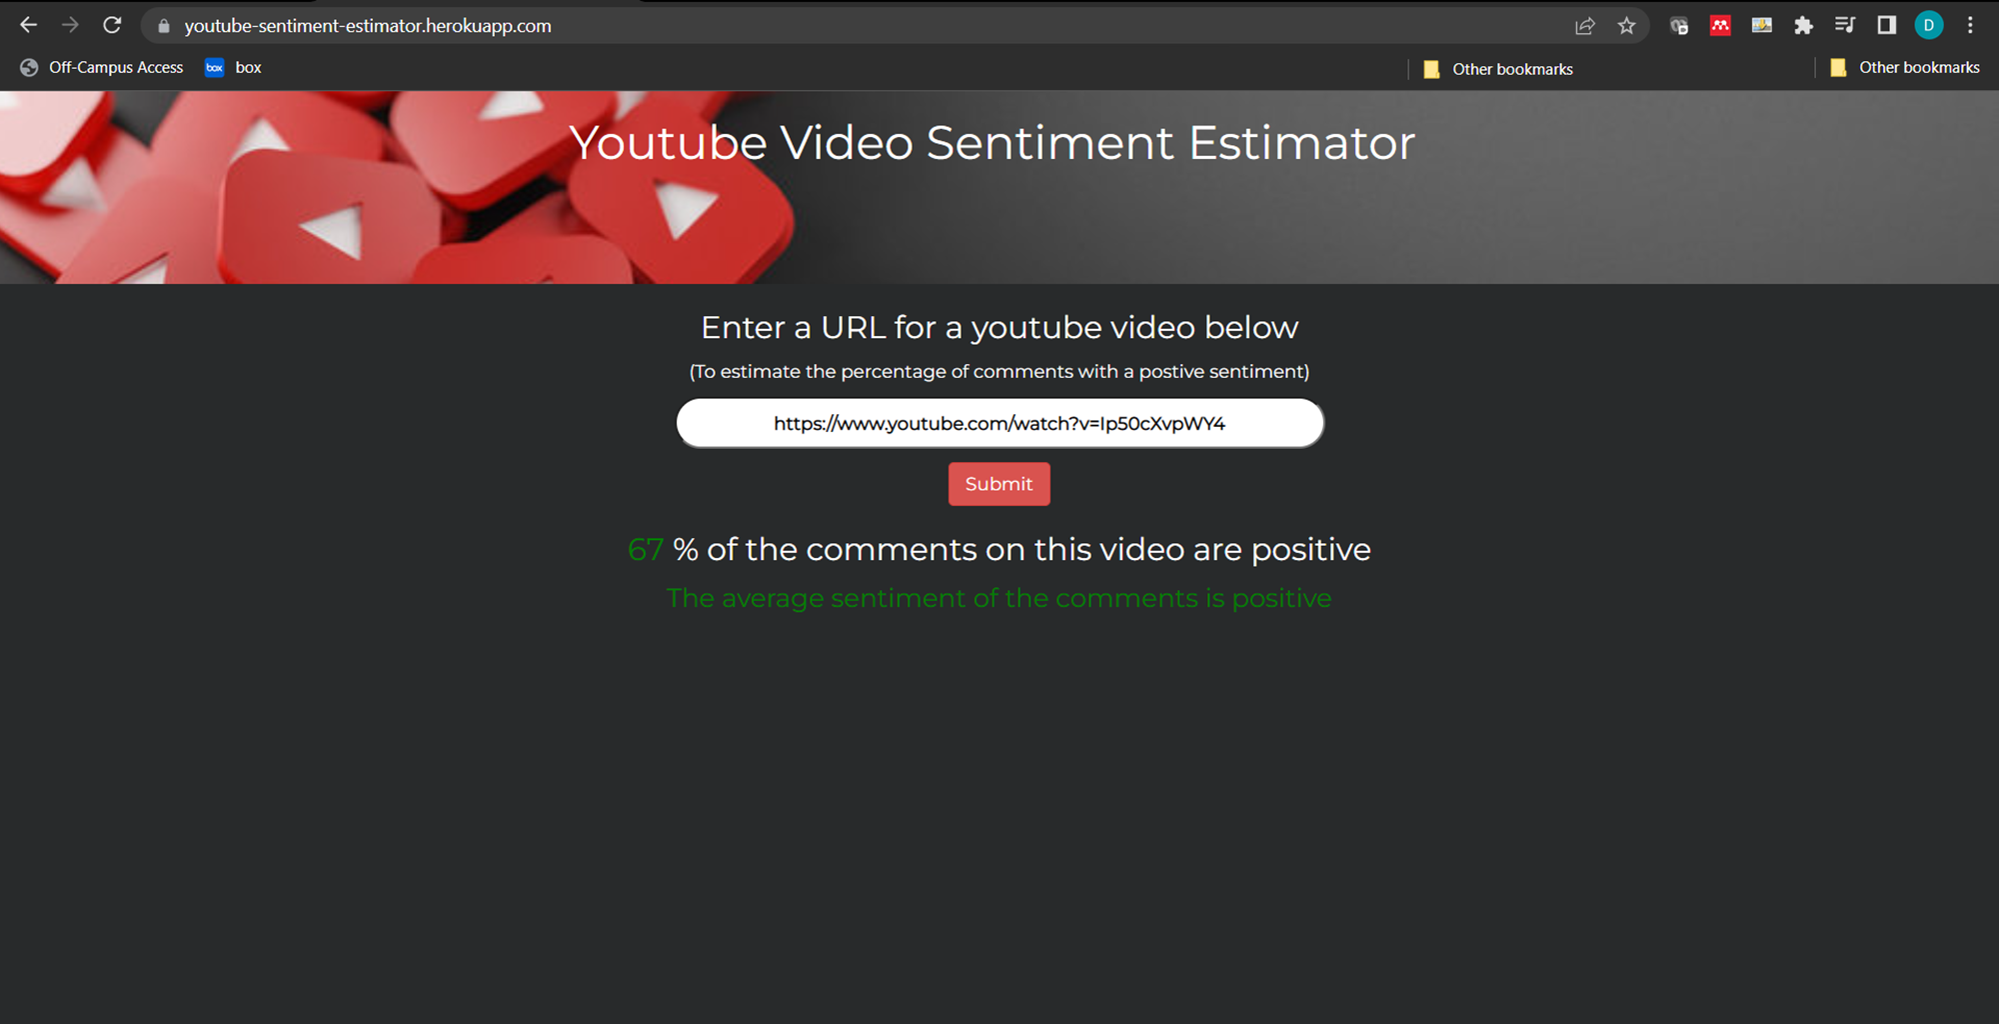
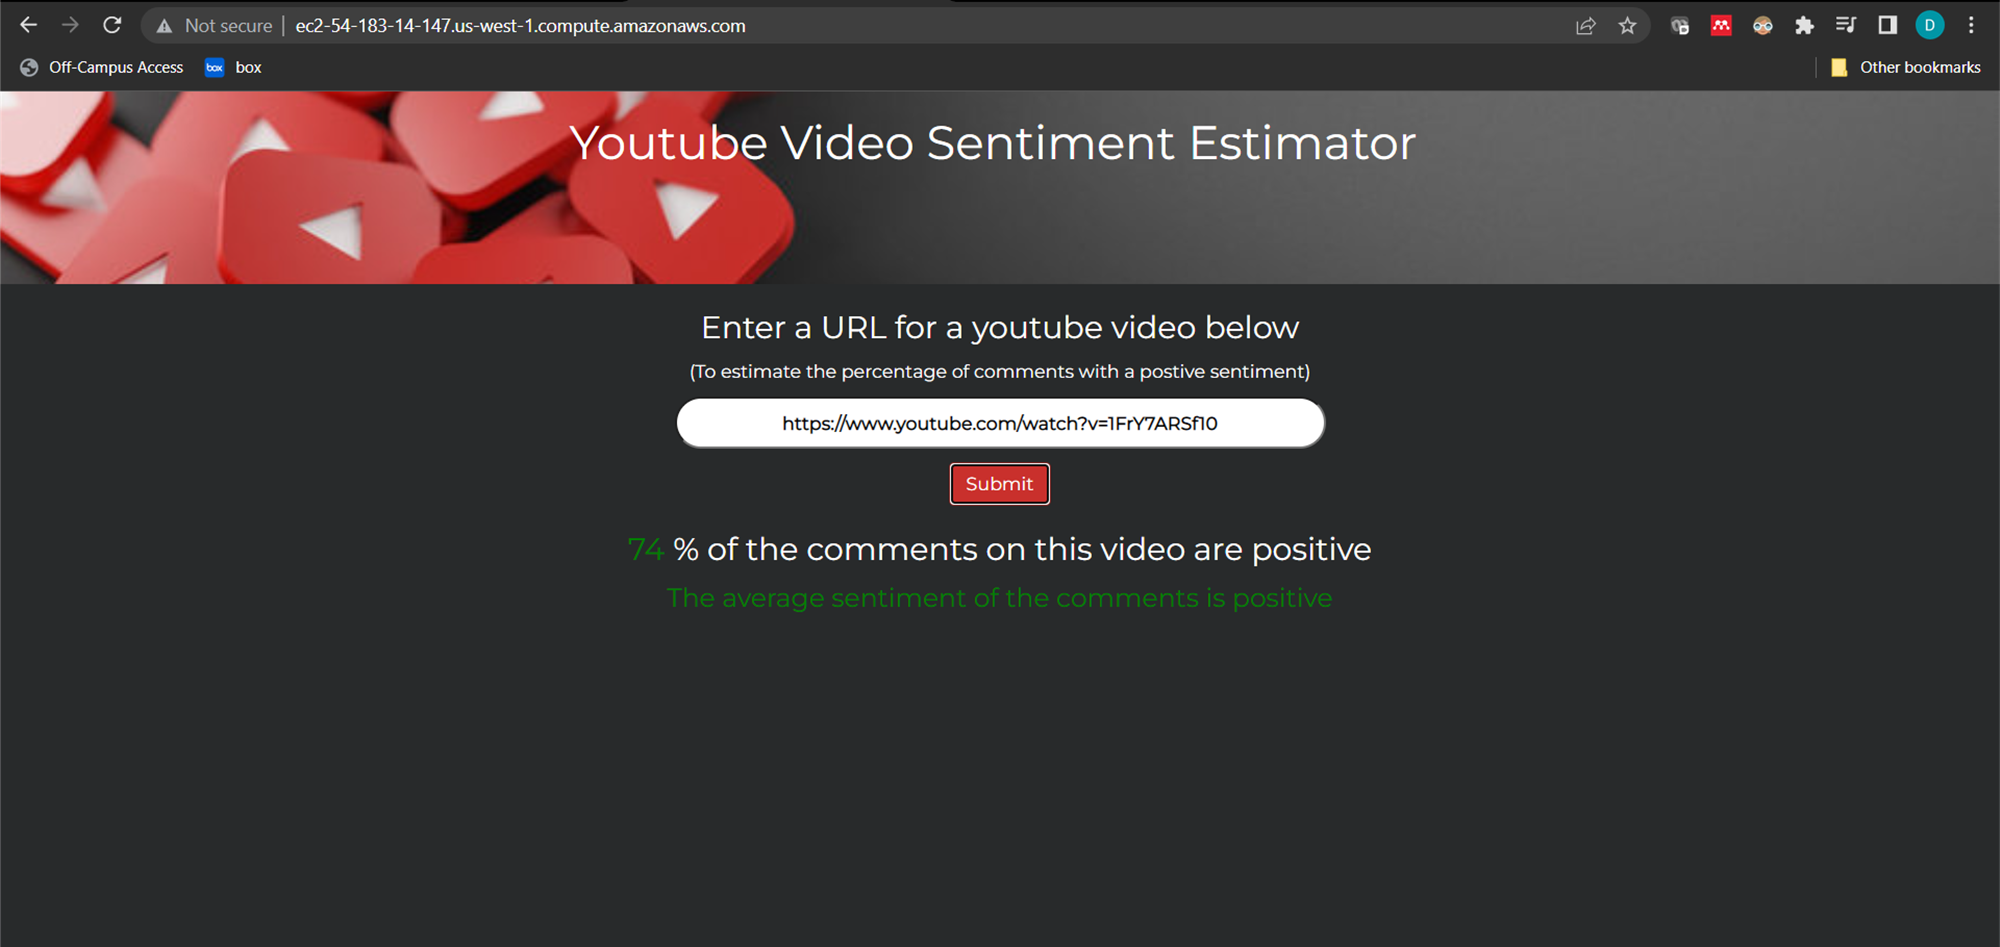
update readme

Changed region(s): [[0.0, 0.0, 1.0, 0.6431], [0.8374, 0.0, 0.9305, 0.0306], [0.031, 0.0, 0.062, 0.0306]]

diff --git a/README.md b/README.md
@@ -4,14 +4,14 @@
   <img src="readme_images/homepage.png" width="600" >
 </p>
 
-### Web App Link: https://youtube-sentiment-estimator.herokuapp.com/
+### Web App Link: http://ec2-54-183-14-147.us-west-1.compute.amazonaws.com/
 
 ## Overview
 * Used the IMDB movie review sentiment database for training 
-* Calculated word embeddings using word2vec and trained SVA model for sentiment classification
-* Utilized Youtube API to retrieve comments for a given video
-* Calculated average word embedding for each comment, applied SVC model to each comment to estimate sentiment, and calculated percentage of positive comments
-* Deployed model in a full stack web app
+* Calculated word embeddings using word2vec/spacy and trained SVA model for sentiment classification
+* Utilize Youtube API to retrieve comments for a user-inputed youtube video URL
+* Calculate average word embedding for each comment, apply SVC model to each comment to estimate sentiment, and calculate percentage of positive comments
+* Deployed app in a full stack web app on AWS EC2 using gunicorn as a wsgi server and nginx as a reverse proxy server
 
 ## Resources
 **Python version:** 3.8
@@ -36,12 +36,13 @@ The SVC model achieved an accuracy of 87% for predicting the sentiment (positive
 
 ## Model Productionalization
 
-* Used Youtube Comments API to automatically retrieve a list of comment strings for a given link
+* Used Youtube Comments API to automatically retrieve a list of comment strings for a given link inputted by the user
 * Calculate word embeddings for each comment for a given video
 * Implement SVC model to predict sentiment of each comment
 * Calculate the percentage of comments that have a positive sentiment
 * Created flask API endpoint 
-* Wrote a full stack web application in HTML, CSS, and JavaScript 
+* Wrote a full stack web application in HTML, CSS, and JavaScript
+* Deployed web app on AWS EC2 using gunicorn as a wsgi server and nginx as a reverse proxy server 
 
 ## Future work
 * Working on improving documentation
